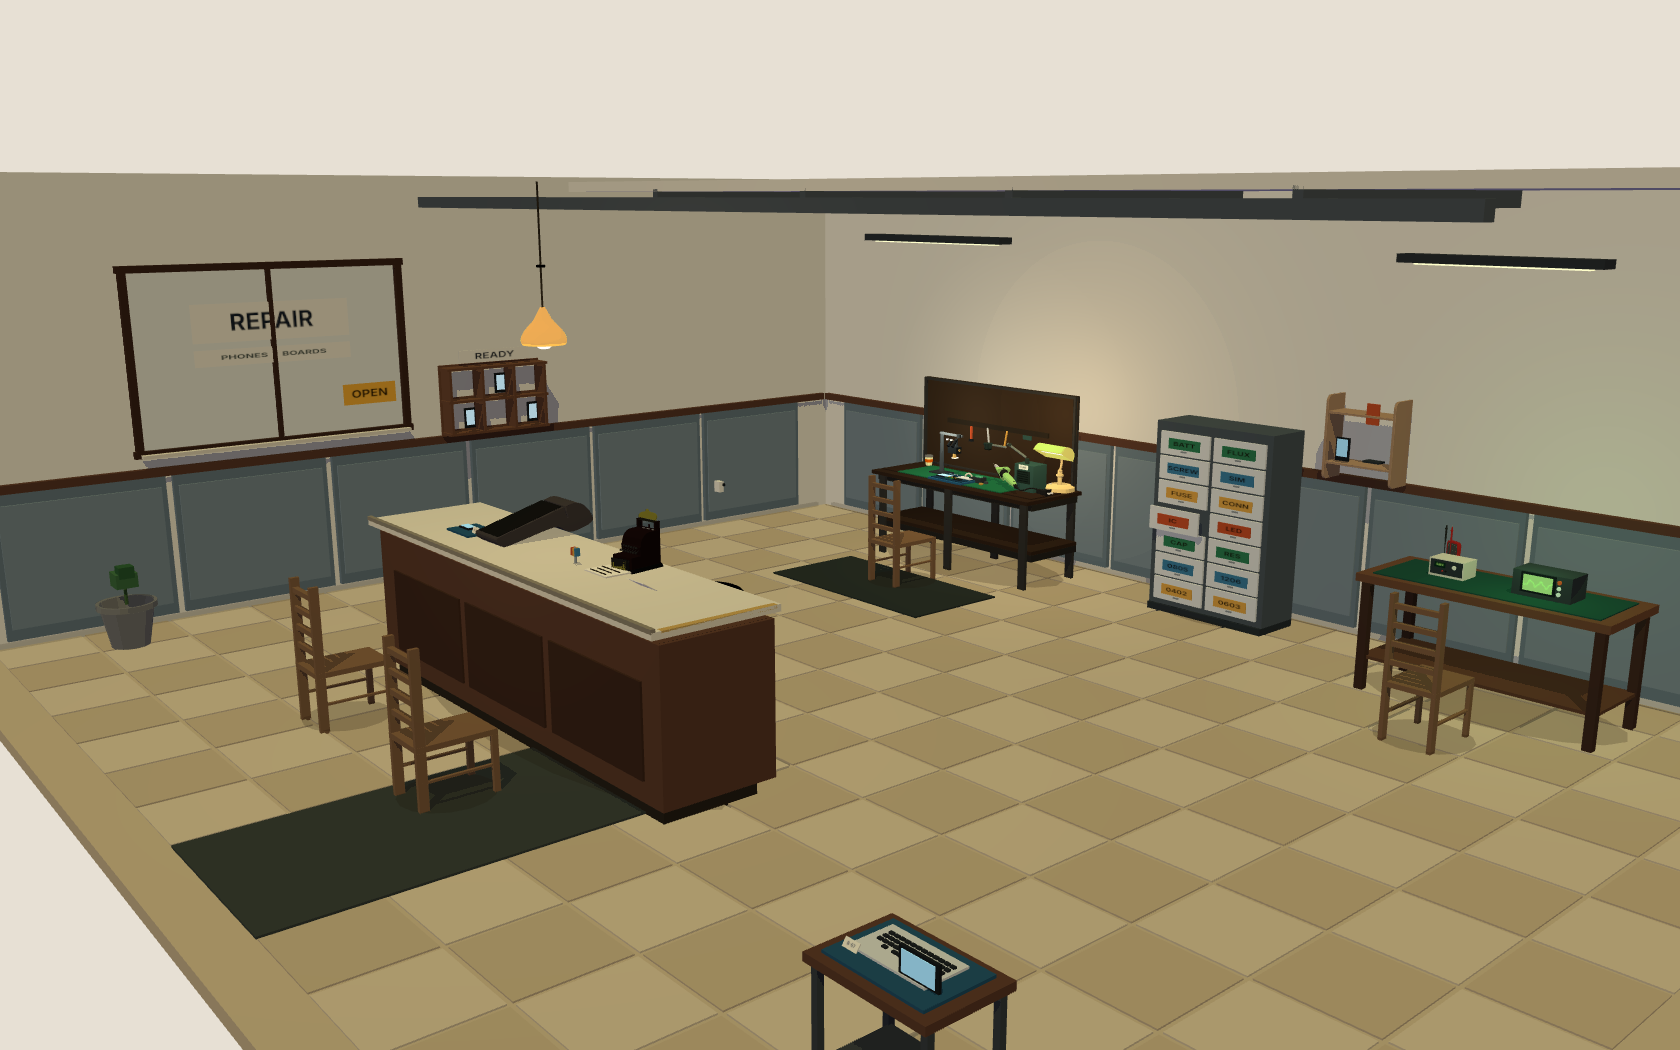
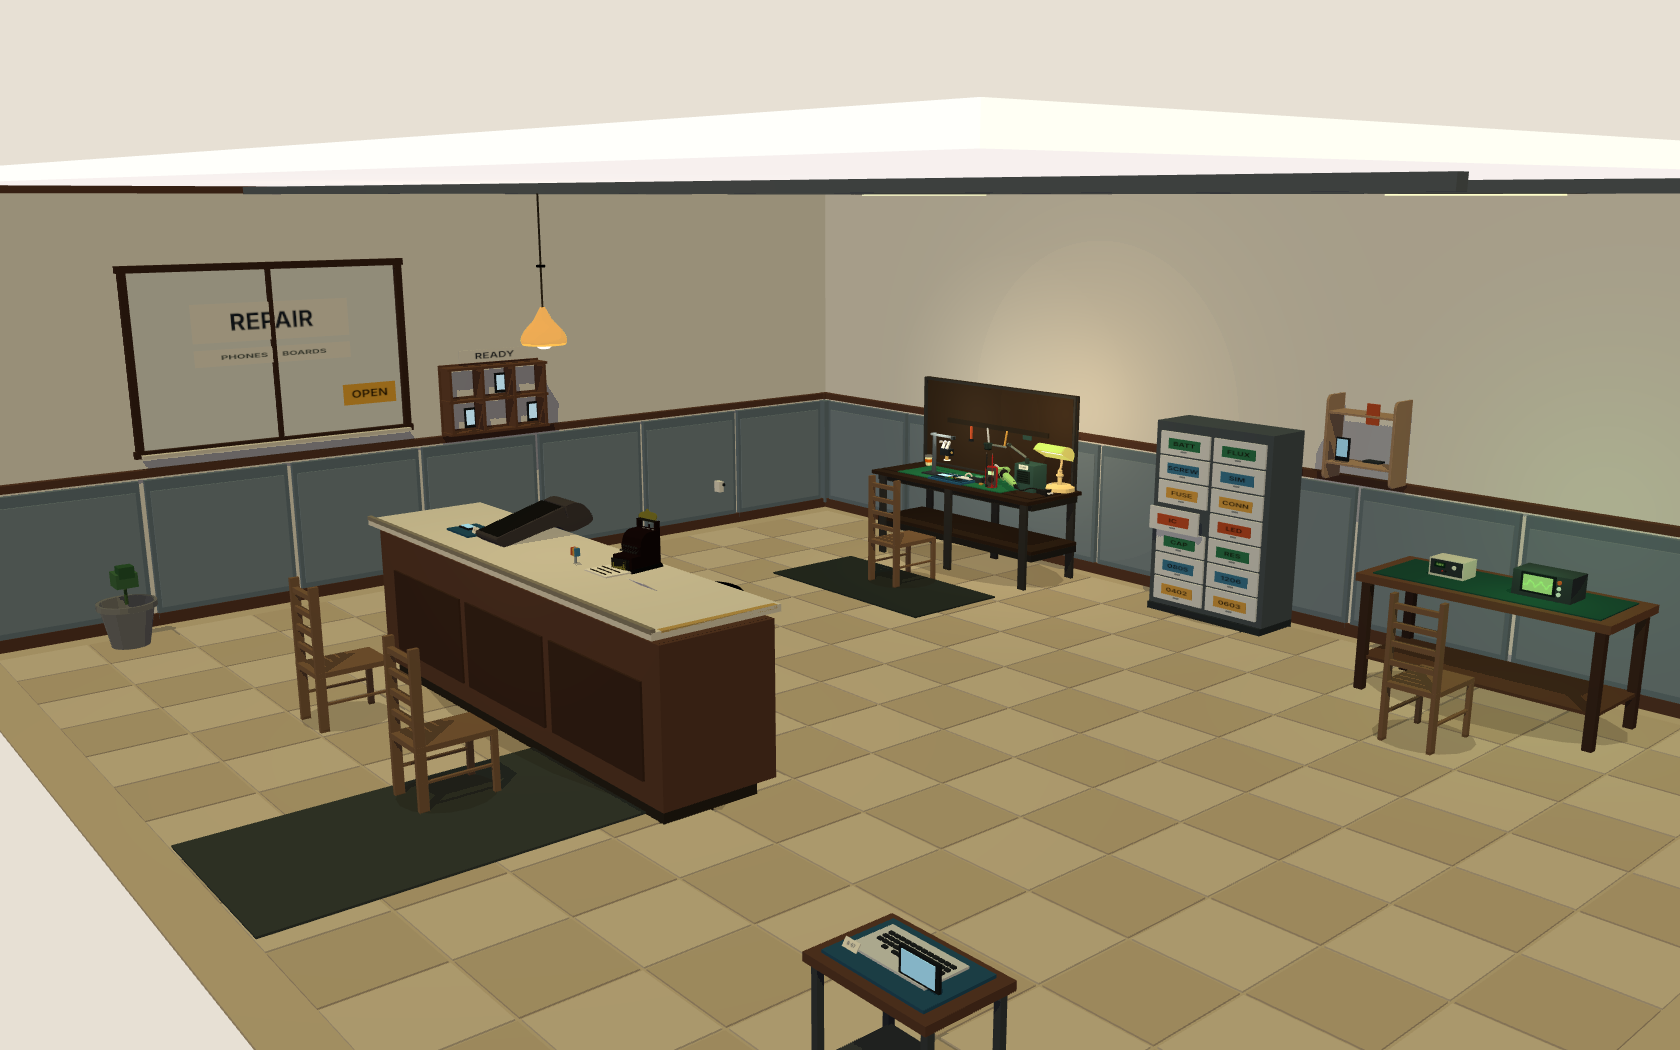
Close the repair shop ceiling and finish the bench detail.
A full soffit carries the shop lights, the wainscot returns at the corner, and the binocular head and multimeter sit beside the repair board.

diff --git a/experiments/indoor30-20261113/electronics-repair/repair.js b/experiments/indoor30-20261113/electronics-repair/repair.js
@@ -1,5 +1,5 @@
 import * as THREE from 'three';
-import { boot, toon, addBox, addCyl, makeCutawayShell } from './scene_lib.js';
+import { boot, toon, addBox, addCyl, makeCutawayShell, applyShading } from './scene_lib.js';
 
 const labelCache = new Map();
 
@@ -77,54 +77,87 @@ function makeShell(layout) {
   const innerB = -D / 2 + 0.08;
   const innerL = -W / 2 + 0.08;
 
+  g.traverse((obj) => {
+    if (!obj.isMesh || !obj.geometry?.parameters) return;
+    const p = obj.geometry.parameters;
+    if (p.height === 0.08 && p.width > 5 && p.depth > 5) {
+      obj.geometry.dispose();
+      obj.geometry = new THREE.BoxGeometry(p.width, 0.014, p.depth);
+      obj.position.y = -0.007;
+      obj.userData.noShadow = true;
+      obj.userData.receiveShadow = true;
+    }
+  });
+
   const tileA = toon('#d4c4aa');
   const tileB = toon('#c2b093');
   const grout = toon('#a89880');
-  const tw = 0.58;
-  const nx = Math.ceil((W - 0.4) / tw);
-  const nz = Math.ceil((D - 0.4) / tw);
+  const tw = 0.56;
+  const margin = 0.06;
+  const nx = Math.floor((W - margin * 2) / tw);
+  const nz = Math.floor((D - margin * 2) / tw);
+  const ox = -((nx - 1) * tw) / 2;
+  const oz = -((nz - 1) * tw) / 2;
   for (let iz = 0; iz < nz; iz++) {
     for (let ix = 0; ix < nx; ix++) {
-      const x = -W / 2 + 0.28 + ix * tw;
-      const z = -D / 2 + 0.28 + iz * tw;
-      quiet(addBox(g, tw - 0.025, 0.008, tw - 0.025, (ix + iz) % 2 ? tileB : tileA, x, 0.006, z));
+      quiet(addBox(g, tw - 0.018, 0.008, tw - 0.018, (ix + iz) % 2 ? tileB : tileA, ox + ix * tw, 0.006, oz + iz * tw));
     }
   }
-  quiet(addBox(g, W - 0.2, 0.004, 0.012, grout, 0, 0.012, innerB + 0.02));
+  quiet(addBox(g, W - 0.16, 0.004, 0.012, grout, 0, 0.012, innerB + 0.02));
 
   const panel = toon('#6a7c88');
   const inset = toon('#7d8e99', { polygonOffset: true, polygonOffsetFactor: -1, polygonOffsetUnits: -1 });
-  const spanX = W - 0.7;
+  const wood = toon('#5c3d2e');
+  const panelH = 1.02;
+  const panelY = 0.56;
+  const railY = 1.12;
+  const backZ = innerB + 0.03;
+  const leftX = innerL + 0.03;
+  const xEnd = W / 2 - 0.28;
+  const zEnd = D / 2 - 0.28;
+  quiet(addBox(g, 0.09, panelH, 0.09, panel, leftX, panelY, backZ));
   const nBack = 8;
+  const bw = (xEnd - (leftX + 0.06)) / nBack;
   for (let i = 0; i < nBack; i++) {
-    const x = -W / 2 + 0.4 + (i + 0.5) * (spanX / nBack);
-    quiet(addBox(g, spanX / nBack - 0.05, 1.02, 0.04, panel, x, 0.58, innerB + 0.03));
-    quiet(addBox(g, spanX / nBack - 0.12, 0.86, 0.015, inset, x, 0.58, innerB + 0.05));
+    const x = leftX + 0.06 + (i + 0.5) * bw;
+    quiet(addBox(g, bw - 0.04, panelH, 0.04, panel, x, panelY, backZ));
+    quiet(addBox(g, bw - 0.1, panelH - 0.16, 0.012, inset, x, panelY, backZ + 0.018));
   }
-  const spanZ = D - 0.8;
-  const nLeft = 6;
+  const nLeft = 7;
+  const ld = (zEnd - (backZ + 0.06)) / nLeft;
   for (let i = 0; i < nLeft; i++) {
-    const z = -D / 2 + 0.45 + (i + 0.5) * (spanZ / nLeft);
-    quiet(addBox(g, 0.04, 1.02, spanZ / nLeft - 0.05, panel, innerL + 0.03, 0.58, z));
-    quiet(addBox(g, 0.015, 0.86, spanZ / nLeft - 0.12, inset, innerL + 0.05, 0.58, z));
+    const z = backZ + 0.06 + (i + 0.5) * ld;
+    quiet(addBox(g, 0.04, panelH, ld - 0.04, panel, leftX, panelY, z));
+    quiet(addBox(g, 0.012, panelH - 0.16, ld - 0.1, inset, leftX + 0.018, panelY, z));
   }
-  addBox(g, W - 0.3, 0.06, 0.05, toon('#5c3d2e'), 0, 1.12, innerB + 0.04);
-  addBox(g, 0.05, 0.06, D - 0.3, toon('#5c3d2e'), innerL + 0.04, 1.12, 0);
+  addBox(g, xEnd - leftX, 0.055, 0.06, wood, (leftX + xEnd) / 2, railY, backZ);
+  addBox(g, 0.06, 0.055, zEnd - backZ, wood, leftX, railY, (backZ + zEnd) / 2);
+  addBox(g, 0.1, 0.055, 0.1, wood, leftX, railY, backZ);
+  quiet(addBox(g, xEnd - leftX + 0.02, 0.09, 0.028, wood, (leftX + xEnd) / 2, 0.045, backZ + 0.01));
+  quiet(addBox(g, 0.028, 0.09, zEnd - backZ, wood, leftX + 0.01, 0.045, (backZ + zEnd) / 2));
 
-  const steel = toon('#4e555c');
-  const soffit = toon('#efe8da');
-  quiet(addBox(g, W - 0.8, 0.08, 2.4, soffit, -0.3, H - 0.08, -2.2));
-  for (const x of [-3.4, -1.6, 0.3, 2.2]) {
-    quiet(addBox(g, 0.06, 0.12, 2.3, steel, x, H - 0.16, -2.15));
+  const ceilMat = toon('#f4efe6', { emissive: '#f6f0e4', emissiveIntensity: 0.92, side: THREE.DoubleSide });
+  const ceilUnder = H - 0.09;
+  quiet(addBox(g, W - 0.1, 0.07, D - 0.1, ceilMat, -0.02, H - 0.05, -0.02));
+  const cornY = H - 0.1;
+  quiet(addBox(g, xEnd - leftX + 0.04, 0.07, 0.07, wood, (leftX + xEnd) / 2, cornY, backZ));
+  quiet(addBox(g, 0.07, 0.07, zEnd - backZ, wood, leftX, cornY, (backZ + zEnd) / 2));
+  quiet(addBox(g, 0.1, 0.07, 0.1, wood, leftX, cornY, backZ));
+  quiet(addBox(g, 0.08, H - 0.04, 0.1, wood, W / 2 - 0.03, (H - 0.04) / 2, -D / 2 + 0.02));
+  quiet(addBox(g, 0.1, H - 0.04, 0.08, wood, -W / 2 + 0.02, (H - 0.04) / 2, D / 2 - 0.03));
+
+  const beam = toon('#5e656c');
+  for (const z of [-2.55, -0.35, 1.7]) {
+    quiet(addBox(g, W - 0.7, 0.05, 0.06, beam, -0.08, ceilUnder - 0.025, z));
   }
-  quiet(addBox(g, W - 1.2, 0.08, 0.08, steel, -0.4, H - 0.2, 0.35));
 
   const tube = toon('#fff6dd', { emissive: '#ffe7b0', emissiveIntensity: 0.85 });
   const housing = toon('#2e3338');
-  quiet(addBox(g, 1.5, 0.05, 0.14, housing, -2.05, 2.72, -2.7));
-  quiet(addBox(g, 1.32, 0.012, 0.06, tube, -2.05, 2.69, -2.7));
-  quiet(addBox(g, 1.15, 0.05, 0.14, housing, 2.45, 2.7, -2.65));
-  quiet(addBox(g, 0.98, 0.012, 0.06, tube, 2.45, 2.67, -2.65));
+  const hy = ceilUnder - 0.03;
+  quiet(addBox(g, 1.5, 0.04, 0.14, housing, -2.05, hy, -2.55));
+  quiet(addBox(g, 1.32, 0.01, 0.06, tube, -2.05, hy - 0.026, -2.55));
+  quiet(addBox(g, 1.15, 0.04, 0.14, housing, 2.35, hy, -2.45));
+  quiet(addBox(g, 0.98, 0.01, 0.06, tube, 2.35, hy - 0.026, -2.45));
 
   const ao = toon('#2a241c', { transparent: true, opacity: 0.16, depthWrite: false });
   quiet(addBox(g, W - 0.4, 0.04, 0.06, ao, 0, 0.03, innerB));
@@ -152,27 +185,27 @@ function stereoScope(g, x, y, z) {
   grp.name = 'solder_scope';
   addBox(grp, 0.18, 0.02, 0.12, toon('#2c3136'), 0, 0.01, 0);
   addCyl(grp, 0.016, 0.02, 0.34, toon('#3e464e'), -0.02, 0.19, -0.02, 12);
-  addBox(grp, 0.26, 0.018, 0.02, toon('#535c64'), 0.1, 0.35, -0.01);
-  addCyl(grp, 0.02, 0.02, 0.028, toon('#2a3034'), 0.2, 0.35, 0.0, 10);
-  addCyl(grp, 0.012, 0.014, 0.08, toon('#2e353c'), 0.2, 0.29, 0.03, 10);
-  addBox(grp, 0.1, 0.055, 0.06, toon('#1b2126'), 0.2, 0.24, 0.05);
-  addCyl(grp, 0.012, 0.018, 0.045, toon('#c6a15a'), 0.2, 0.19, 0.05, 10);
+  addBox(grp, 0.28, 0.018, 0.02, toon('#535c64'), 0.11, 0.35, 0.01);
+  addCyl(grp, 0.02, 0.02, 0.028, toon('#2a3034'), 0.24, 0.35, 0.02, 10);
+  addCyl(grp, 0.012, 0.014, 0.08, toon('#2e353c'), 0.24, 0.29, 0.07, 10);
+  addBox(grp, 0.1, 0.055, 0.06, toon('#1b2126'), 0.24, 0.24, 0.09);
+  addCyl(grp, 0.012, 0.018, 0.045, toon('#c6a15a'), 0.24, 0.19, 0.09, 10);
   const ring = new THREE.Mesh(
     new THREE.TorusGeometry(0.026, 0.0045, 8, 16),
     toon('#fff4d4', { emissive: '#ffd7a4', emissiveIntensity: 1 }),
   );
   ring.rotation.x = Math.PI / 2;
-  ring.position.set(0.2, 0.172, 0.045);
+  ring.position.set(0.24, 0.172, 0.085);
   grp.add(quiet(ring));
   for (const dx of [-0.024, 0.024]) {
-    const eye = new THREE.Mesh(new THREE.CylinderGeometry(0.012, 0.014, 0.07, 10), toon('#14181c'));
-    eye.position.set(0.2 + dx, 0.3, 0.08);
-    eye.rotation.x = -0.7;
+    const eye = new THREE.Mesh(new THREE.CylinderGeometry(0.012, 0.014, 0.07, 10), toon('#e8ebef'));
+    eye.position.set(0.24 + dx, 0.3, 0.1);
+    eye.rotation.x = -0.55;
     eye.castShadow = true;
     grp.add(eye);
-    addCyl(grp, 0.013, 0.013, 0.012, toon('#c5ccd2'), 0.2 + dx, 0.332, 0.11, 8);
+    addCyl(grp, 0.016, 0.016, 0.014, toon('#f7f8f6'), 0.24 + dx, 0.328, 0.132, 8);
   }
-  const knob = addCyl(grp, 0.011, 0.011, 0.016, toon('#c6a15a'), 0.248, 0.24, 0.045, 8);
+  const knob = addCyl(grp, 0.011, 0.011, 0.016, toon('#c6a15a'), 0.288, 0.24, 0.085, 8);
   knob.rotation.z = Math.PI / 2;
   grp.position.set(x, y, z);
   g.add(grp);
@@ -544,8 +577,9 @@ function shelfDevices(g, layout) {
 
 function pendantCord(g, layout) {
   const p = layout.instances.find((i) => i.id === 'pendant');
-  const H = layout.meta.room.height;
-  addCyl(g, 0.006, 0.006, H - p.position[1] - 0.15, toon('#2a241c'), p.position[0], (H + p.position[1]) / 2, p.position[2], 6);
+  const y0 = p.position[1] + 0.2;
+  const y1 = layout.meta.room.height - 0.09;
+  addCyl(g, 0.006, 0.006, y1 - y0, toon('#2a241c'), p.position[0], (y0 + y1) / 2, p.position[2], 6);
 }
 
 function foliage(g, x, y, z) {
@@ -562,7 +596,7 @@ function makeProcedural(layout) {
   const top = layout.anchors.benchTop;
 
   addBox(g, 1.2, 0.008, 0.42, toon('#1f6b45'), s.x - 0.05, top + 0.006, s.z + 0.04);
-  stereoScope(g, s.x - 0.35, top, s.z + 0.02);
+  stereoScope(g, s.x - 0.36, top, s.z + 0.1);
   fumeExtractor(g, s.x + 0.62, top, s.z - 0.02);
   solderStation(g, s.x + 0.15, top + 0.008, s.z + 0.08);
   phoneTray(g, s.x - 0.05, top + 0.01, s.z + 0.16);
@@ -608,6 +642,32 @@ boot({
   makeProcedural,
   readyText: 'ready — electronics repair · drag orbit · U unlit · T toon',
   onReady(sceneApi) {
+    const meter = sceneApi.scene.getObjectByName('meter');
+    if (meter) {
+      let face = null;
+      meter.traverse((obj) => {
+        if (obj.isMesh && (obj.name || '').toLowerCase() === 'dark_face') face = obj;
+      });
+      if (face) {
+        face.geometry.computeBoundingBox();
+        const bb = face.geometry.boundingBox;
+        const sz = bb.getSize(new THREE.Vector3());
+        const thin = sz.x <= sz.y && sz.x <= sz.z ? 'x' : sz.y <= sz.z ? 'y' : 'z';
+        const lcd = new THREE.Mesh(
+          new THREE.PlaneGeometry(sz.x * 0.62, sz.z * 0.2),
+          toon('#123c28', { emissive: '#c6ff9a', emissiveIntensity: 1.2, side: THREE.DoubleSide }),
+        );
+        lcd.rotation.x = Math.PI / 2;
+        const outward = thin === 'y' ? bb.max.y + sz.y : thin === 'x' ? bb.max.x + sz.x : bb.max.z + sz.z;
+        lcd.position.set(bb.getCenter(new THREE.Vector3()).x, thin === 'y' ? outward : bb.getCenter(new THREE.Vector3()).y, bb.min.z + sz.z * 0.27);
+        if (thin === 'x') lcd.position.x = outward;
+        if (thin === 'z') lcd.position.z = outward;
+        lcd.name = 'meter_readout';
+        face.add(lcd);
+        const mode = (document.getElementById('mode')?.textContent || 'TOON').toLowerCase();
+        applyShading(lcd, mode.includes('unlit') ? 'unlit' : 'toon');
+      }
+    }
     window.__bounds = (name) => {
       const obj = sceneApi.scene.getObjectByName(name);
       if (!obj) return null;

diff --git a/experiments/indoor30-20261113/electronics-repair/scene_lib.js b/experiments/indoor30-20261113/electronics-repair/scene_lib.js
@@ -351,6 +351,18 @@ export async function boot(opts) {
           });
         }
         markLamps(prepared);
+        if (kind === 'multimeter') {
+          prepared.traverse((obj) => {
+            if (!obj.isMesh || (obj.name || '').toLowerCase() !== 'display') return;
+            const mats = Array.isArray(obj.material) ? obj.material : [obj.material];
+            for (const m of mats) {
+              if (!m) continue;
+              if (m.color) m.color.set('#123528');
+              m.emissive = new THREE.Color('#b6ffb0');
+              m.emissiveIntensity = 0.75;
+            }
+          });
+        }
         applyShading(prepared, shadingMode);
         prototypes[kind] = prepared;
       } catch (err) {

diff --git a/experiments/indoor30-20261113/electronics-repair/refs/GAP.md b/experiments/indoor30-20261113/electronics-repair/refs/GAP.md
@@ -7,5 +7,6 @@
 - The soldering-iron bake includes the cord and wall plug. It lies on the mat beside the fume box. There is no iron stand in the catalog.
 - The workbench GLB is a tall back panel plus a walnut top. Scaled to 1.5 m overall, the work surface lands near 0.74 m. Dining chairs (0.88 m overall) face that top; the staff stool faces the 1.04 m counter from the shop side.
 - Drawer labels (0402, 0603, 0805, 1206, CAP, RES, and the rest) follow the SMD sizes in the soldering photos. No usable photo of a labeled small-parts cabinet turned up, so the cabinet itself is not matched to a reference image.
-- Contact shadows under chairs are discs. The toon path has no screen-space AO. Wainscot, floor tiles, and the ceiling tubes do not cast, which keeps the walls from picking up shadow acne.
+- Contact shadows under chairs are discs. The toon path has no screen-space AO. Wainscot, floor tiles, and the ceiling do not cast, which keeps the walls from picking up shadow acne. The ceiling is a full soffit; the shop lights and beams hang on its underside.
+- The multimeter stands on the solder bench beside the phone board so the red body and the green display read in the detail shot. The probe leads still set the mesh height, so the body stays small. The stereo head is two white eyepieces over a short objective, not a compound lab microscope.
 - Window lettering is canvas text on planes. It is readable at the default camera and disappears if the plane faces the wall.
